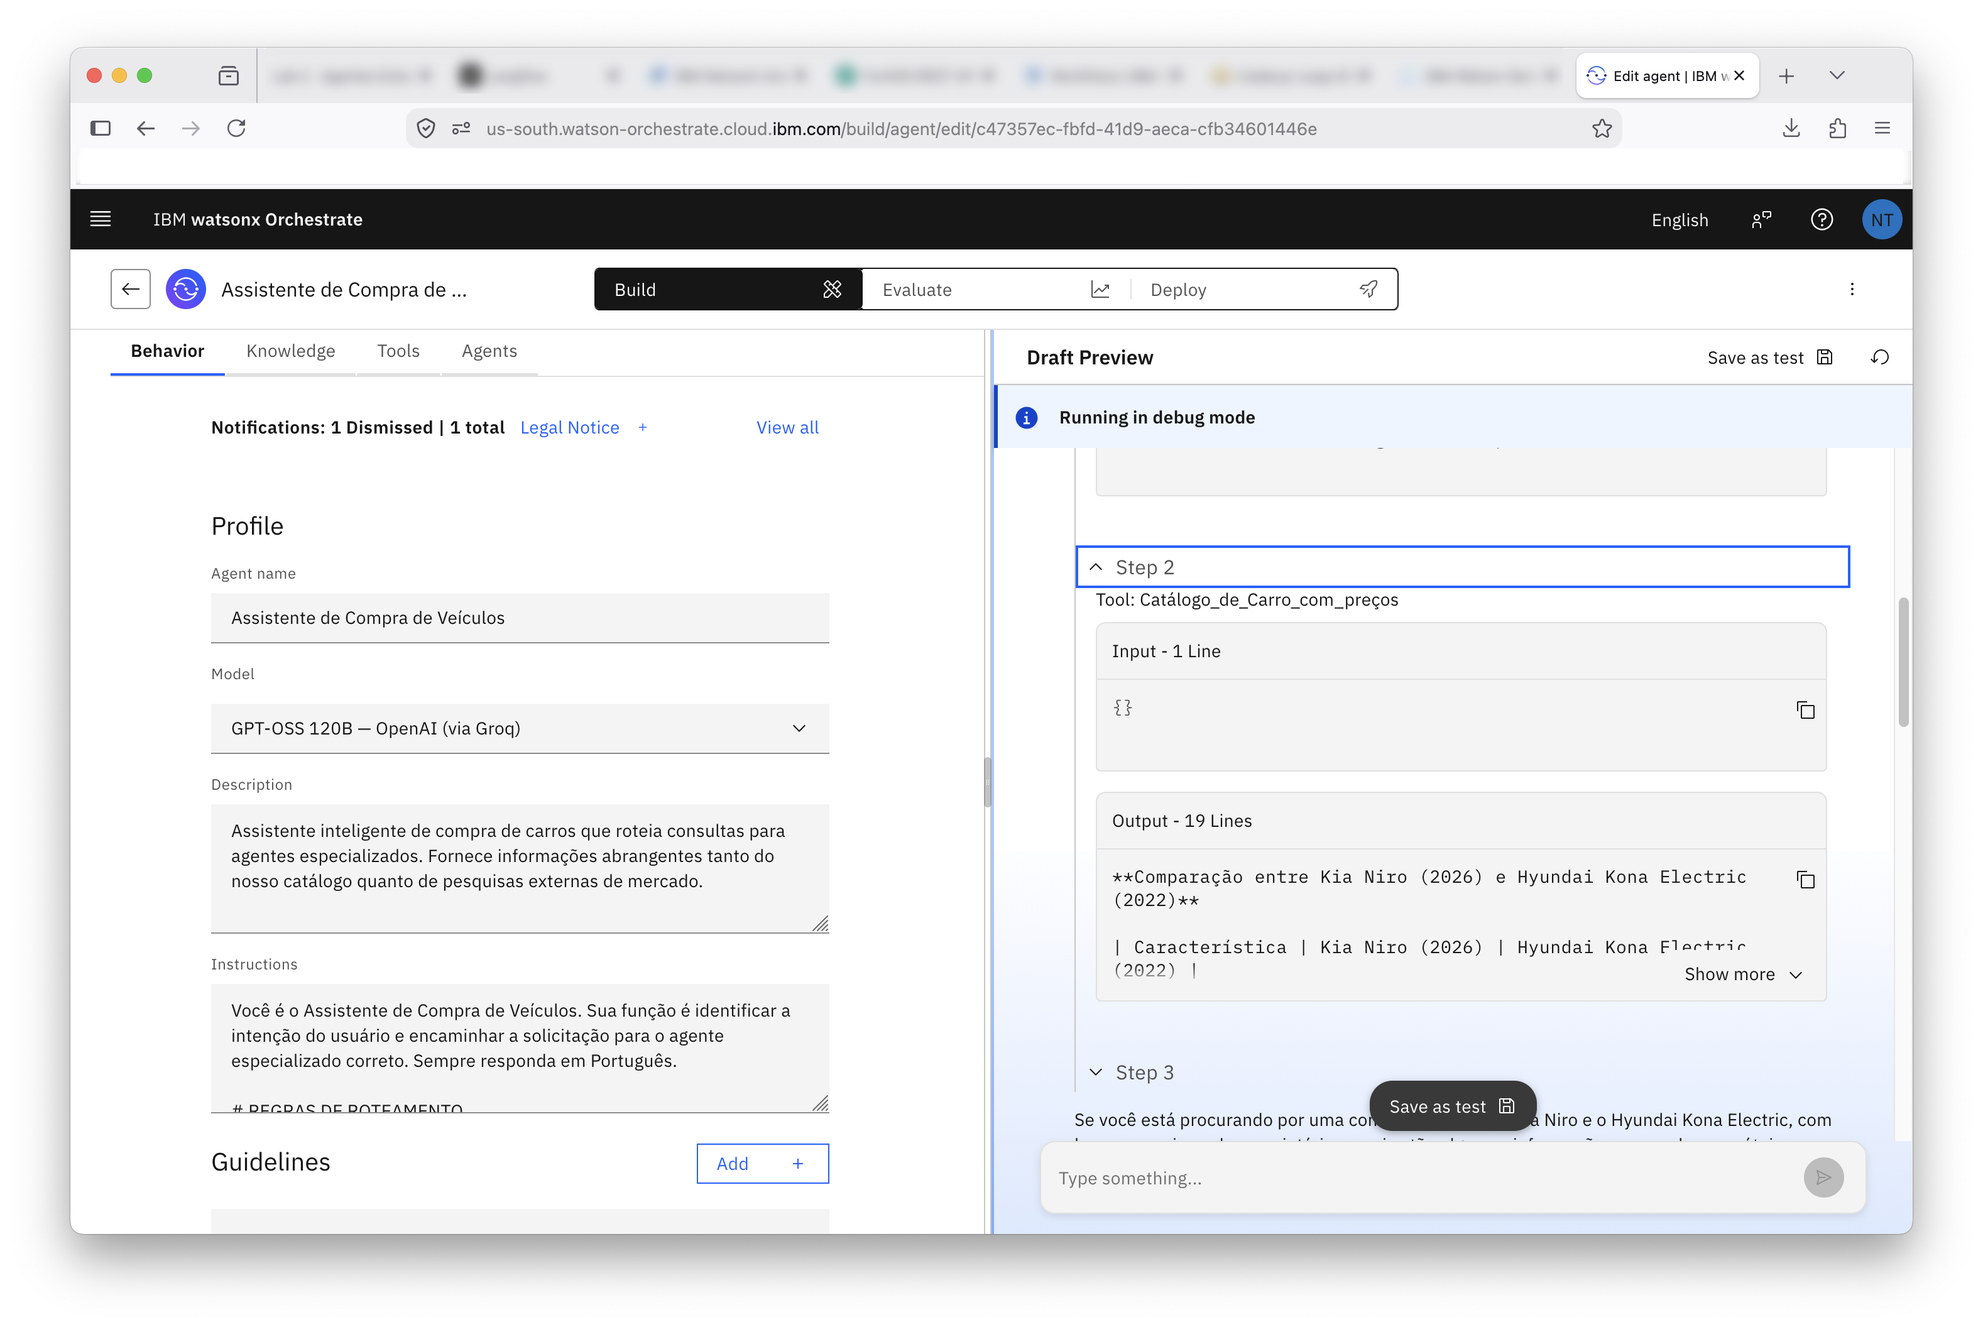
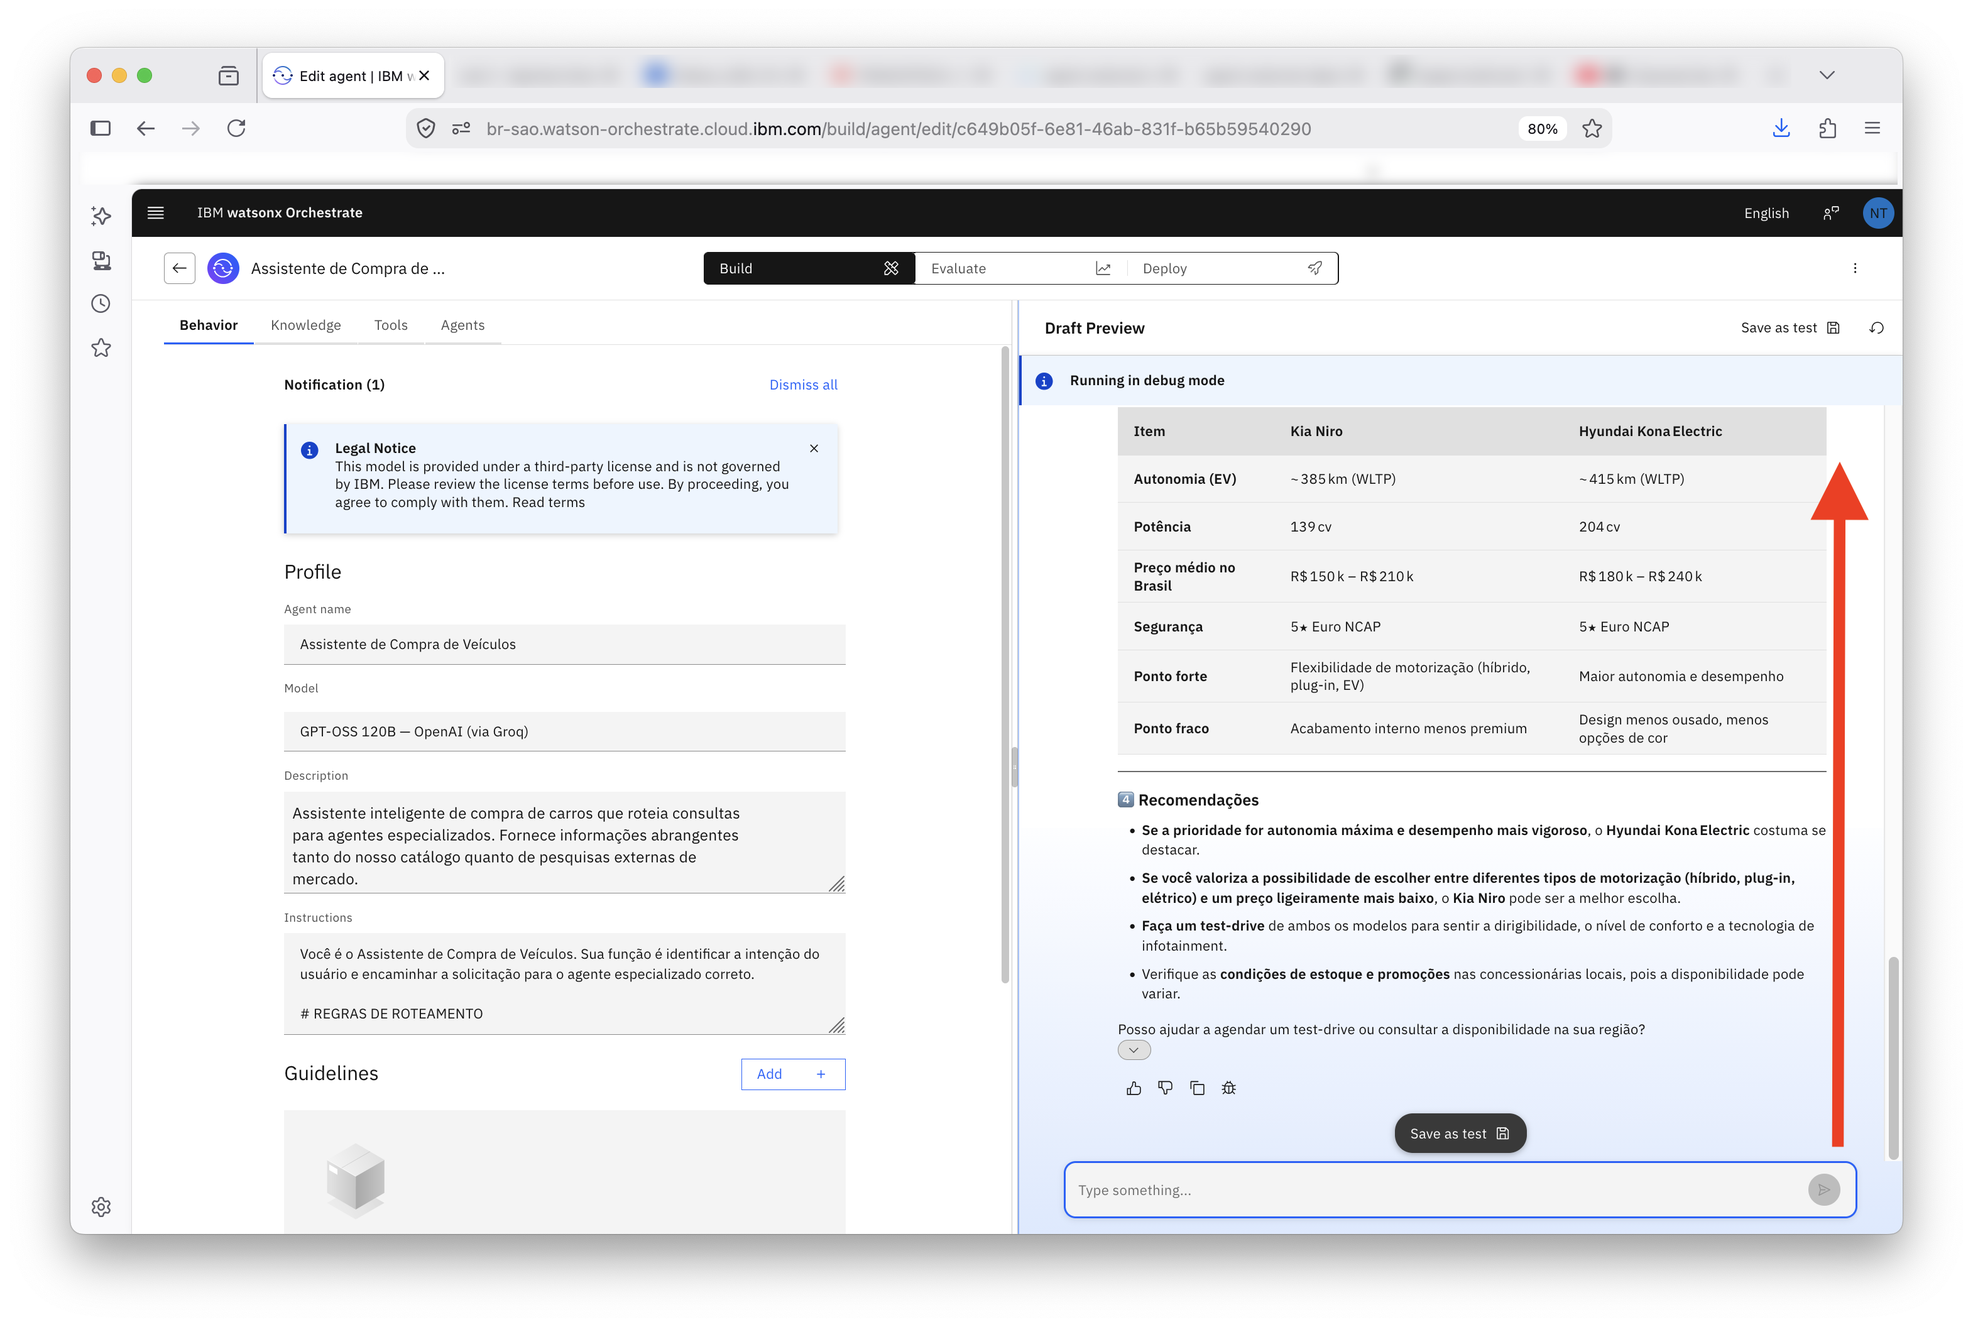
Update lab 2

diff --git a/Use_Cases/control-planning/Step_by_Step_Lab2.md b/Use_Cases/control-planning/Step_by_Step_Lab2.md
@@ -7,6 +7,8 @@
   - [Visão Geral](#visão-geral)
   - [Parte 1: Conectar Agente de Busca de Terceiros](#parte-1-conectar-agente-de-busca-de-terceiros)
   - [Parte 2: Criar o Agente Orquestrador](#parte-2-criar-o-agente-orquestrador)
+    - [Testando o agente orquestrador](#testando-o-agente-orquestrador)
+    - [Teste 2: quando o agente decide *não* buscar na web](#teste-2-quando-o-agente-decide-não-buscar-na-web)
   - [Resumo](#resumo)
     - [Sou desenvolvedor e quero me aprofundar no watsonx Orchestrate](#sou-desenvolvedor-e-quero-me-aprofundar-no-watsonx-orchestrate)
   - [Próximos Passos](#próximos-passos)
@@ -354,17 +356,26 @@ Assistente inteligente de compra de carros que roteia consultas para agentes esp
 
 ![Add Agents, Local instance](../../Assets_for_BuildBooks/labs/lab02/lab02_36.png)
 
-**7.** Marque os dois agentes que você criou até aqui: o agente responsável pelo catálogo (criado no laboratório 1) e o **Agente Langflow de Buscas**, o colaborador externo importado na Parte 1 deste laboratório. Não se preocupe se os nomes exibidos na sua tela forem ligeiramente diferentes dos mostrados aqui, o importante é selecionar os agentes que você mesmo construiu ao longo do bootcamp. Clique em **Add to agent**.
+**7.** Nessa tela é possível escolher os agentes disponíveis no catalogo na sua instância do **watsonx Orchestrate.**
 
 ![Seleção dos dois agentes especializados](../../Assets_for_BuildBooks/labs/lab02/lab02_37.png)
 
-**8.** A aba **Agents** agora lista os dois colaboradores, cada um com sua descrição.
+**7.** Marque os dois agentes criados até aqui.
 
-![Dois agentes conectados ao orquestrador](../../Assets_for_BuildBooks/labs/lab02/lab02_38.png)
+Em seguida, clique em **Add to agent**
 
-Vamos ensinar ao orquestrador como decidir, a cada pergunta, para qual colaborador encaminhar a solicitação.
+![Seleção dos dois agentes especializados](../../Assets_for_BuildBooks/labs/lab02/lab02_38.png)
 
-**9.** Na aba **Behavior**, no campo **Instructions**, copie e cole a lógica de roteamento abaixo. Ela cobre três cenários: consultas que dependem só do catálogo, consultas que dependem só de pesquisa externa e consultas híbridas, que precisam dos dois agentes ao mesmo tempo:
+A aba **Agents** agora lista os dois colaboradores, cada um com sua descrição.
+
+Vamos ensinar ao agente orquestrador como decidir, a cada pergunta, para qual colaborador encaminhar a solicitação.
+
+Navegue até a aba **Behaviour**
+
+
+![Seleção dos dois agentes especializados](../../Assets_for_BuildBooks/labs/lab02/lab02_39.png)
+
+**8.** Na aba **Behavior**, no campo **Instructions**, copie e cole a lógica de roteamento abaixo. Ela cobre três cenários: consultas que dependem só do catálogo, consultas que dependem só de pesquisa externa e consultas híbridas, que precisam dos dois agentes ao mesmo tempo:
 
 ```
 Você é o Assistente de Compra de Veículos. Sua função é identificar a intenção do usuário e encaminhar a solicitação para o agente especializado correto.
@@ -437,65 +448,187 @@ Fluxo:
 - Para pesquisas externas, utilize exclusivamente o agente **Agente de Busca**
 ```
 
-Teste com uma consulta híbrida, que combina uma pergunta de mercado com um pedido de comparação:
+### Testando o agente orquestrador
+
+Com o **Assistente de Compra de Veículos** já conectado aos seus colaboradores, agora vamos verificar se eles realmente conversam entre si.
+
+O objetivo desta parte é responder a três perguntas:
+
+- O agente orquestrador consegue identificar sozinho **qual** especialista deve atender cada trecho de uma pergunta?
+- Ele consegue **combinar** dados internos (catálogo da concessionária) com dados externos (pesquisa na web) em uma única resposta?
+- E, quando a pergunta não exige busca externa, ele tem juízo de **não** acionar o agente de buscas à toa?
+
+
+No painel `Draft Preview`, envie a consulta abaixo.
 
 ```
 Busque sobre o Kia Niro com o Hyundai Kona Electric e faça uma comparação
 ```
 
-![Instruções de roteamento e teste de consulta híbrida](../../Assets_for_BuildBooks/labs/lab02/lab02_39.png)
+Repare que essa pergunta é propositalmente ambígua quanto à origem da informação. Ela não diz "consulte o catálogo" nem "pesquise na internet". Quem precisa tomar essa decisão é o agente orquestrador, com base nas regras de roteamento definidas no campo `Instructions`.
 
-O orquestrador reconhece que a pergunta pede tanto reviews de proprietários quanto uma análise comparativa, consulta os dois agentes especializados e devolve uma resposta única: características de cada modelo segundo avaliações de donos, seguidas de uma comparação direta entre eles.
+![Seleção dos dois agentes especializados](../../Assets_for_BuildBooks/labs/lab02/lab02_40.png)
 
-![Resposta consolidada sobre Kia Niro e Hyundai Kona Electric](../../Assets_for_BuildBooks/labs/lab02/lab02_40.png)
+A resposta chega organizada em quatro blocos. O primeiro traz as **especificações técnicas** e já vem rotulado pelo próprio agente como *dados internos do catálogo*: tipo de motorização, potência, torque, bateria, autonomia EPA, câmbio, tração, capacidade de passageiros e recarga.
 
-Para entender o que aconteceu por trás dessa resposta, clique em **Show Reasoning**, ao lado do nome do agente.
+![Seleção dos dois agentes especializados](../../Assets_for_BuildBooks/labs/lab02/lab02_41.png)
 
-![Botão Show Reasoning](../../Assets_for_BuildBooks/labs/lab02/lab02_42.png)
+Ainda no primeiro bloco aparecem os itens de segurança, o preço praticado no Brasil e a disponibilidade. Vale guardar esses dois valores, porque eles voltam a aparecer mais adiante:
 
-O painel se expande em três etapas.
+| Modelo | Preço (catálogo) |
+|---|---|
+| Kia Niro | R$ 168.324,10 |
+| Hyundai Kona Electric | R$ 139.834,10 |
 
-![Três etapas do raciocínio do orquestrador](../../Assets_for_BuildBooks/labs/lab02/lab02_43.png)
+O campo **Disponibilidade** aparece como *"Sem informação de estoque no catálogo"* para os dois modelos. Esse é um comportamento desejável: em vez de inventar um dado que não existe na base, o agente declara a ausência dele.
 
-No **Step 1**, o orquestrador aciona a ferramenta `chat_with_collaborator_agente_de_suporte_ao_revendedor`, pedindo especificações técnicas, versões disponíveis, preço médio e disponibilidade para os dois veículos, exatamente o papel que a regra 1 de roteamento define para o agente de catálogo.
+O segundo bloco muda de fonte. Sob o título **Avaliações de usuários e especialistas (pesquisa externa)**, o agente lista pontos positivos, pontos negativos e a opinião de especialistas para cada veículo — informação que não está no catálogo da concessionária e só poderia ter vindo de uma busca na web.
+![Seleção dos dois agentes especializados](../../Assets_for_BuildBooks/labs/lab02/lab02_42.png)
 
-![Step 1, chamada ao agente de suporte ao revendedor](../../Assets_for_BuildBooks/labs/lab02/lab02_44.png)
+O terceiro bloco é um **resumo rápido** em tabela e o quarto traz **recomendações** práticas, incluindo a sugestão de test-drive e a checagem de estoque e promoções na concessionária. A resposta termina com uma pergunta de continuidade, oferecendo agendar um test-drive.
 
-No **Step 2**, dentro dessa mesma consulta, a ferramenta `Catálogo_de_Carro_com_preços` é usada para trazer os dados internos do catálogo.
+![Seleção dos dois agentes especializados](../../Assets_for_BuildBooks/labs/lab02/lab02_43.png)
 
-![Step 2, ferramenta de catálogo com preços](../../Assets_for_BuildBooks/labs/lab02/lab02_45.png)
+![Seleção dos dois agentes especializados](../../Assets_for_BuildBooks/labs/lab02/lab02_44.png)
 
-No **Step 3**, o orquestrador aciona `chat_with_collaborator_Agente_de_Buscas`, o colaborador externo configurado na Parte 1, pedindo reviews de proprietários e uma comparação entre os dois modelos. É esse encadeamento de chamadas, catálogo interno e busca externa, que caracteriza uma consulta híbrida.
+Antes de seguir, role a conversa de volta para o topo e leia a resposta inteira. Ela mistura duas origens de dados em um texto só, e é exatamente isso que vamos rastrear a seguir.
 
-![Step 3, chamada ao Agente Langflow de Buscas](../../Assets_for_BuildBooks/labs/lab02/lab02_46.png)
+![Seleção dos dois agentes especializados](../../Assets_for_BuildBooks/labs/lab02/lab02_45.png)
 
-Agora teste uma pergunta puramente de catálogo:
+**Rastreando o caminho da resposta**
+
+A resposta ficou boa, mas ainda é uma caixa-preta. Para entender quem foi acionado, clique em `Show Reasoning`, ao lado do nome do agente e do horário da mensagem.
+
+![Seleção dos dois agentes especializados](../../Assets_for_BuildBooks/labs/lab02/lab02_46.png)
+
+O painel se expande e mostra quatro passos numerados. Cada passo traz a ferramenta chamada, o **Input** que o agente enviou e o **Output** que recebeu de volta.
+
+**Step 1 — o orquestrador chama o especialista interno**
+
+O primeiro passo aciona a ferramenta `chat_with_collaborator_agente_de_suporte_ao_revendedor`. Repare no conteúdo do Input:
+
+```json
+{
+  "message": "Quais são as especificações técnicas, preços e disponibilidade do Kia Niro e do Hyundai Kona Electric?"
+}
+```
+
+Esse texto **não** foi escrito por você. O orquestrador leu a pergunta original, entendeu que parte dela dependia de dados da concessionária e reformulou uma sub-pergunta específica para o colaborador certo. O Output confirma a transferência: `Transferring to - chat_with_collaborator_agente_de_suporte_ao_revendedor`.
+
+
+![Seleção dos dois agentes especializados](../../Assets_for_BuildBooks/labs/lab02/lab02_47.png)
+
+
+**Step 2 — o especialista consulta a base de conhecimento**
+
+Já dentro do Agente de Suporte ao Revendedor, o segundo passo chama a ferramenta `Catálogo_de_Carro_com_preços` com uma consulta enxuta:
+
+```json
+{
+  "query": "Kia Niro"
+}
+```
+
+O Output tem 22 linhas e vem do documento `Catalog_with_prices_clean.pdf`, com trechos do catálogo, preços e observações. É aqui que nasce o primeiro bloco da resposta.
+
+![Seleção dos dois agentes especializados](../../Assets_for_BuildBooks/labs/lab02/lab02_48.png)
+
+> **Nota:** ao expandir o Output com `Show more`, procure o trecho marcado como *QUALIDADE DE DADOS*. Ele avisa que o catálogo de origem escreve o modelo como **NERO**, enquanto o crossover elétrico da Kia se chama **Niro**, e que o texto foi mantido como impresso. Vale observar que o agente conseguiu casar a consulta "Kia Niro" com o registro "Kia Nero" do catálogo mesmo com a divergência de grafia.
+
+**Step 3 — o orquestrador chama o especialista de busca**
+
+Com os dados internos em mãos, o orquestrador parte para a segunda metade da pergunta e aciona `chat_with_collaborator_agente_de_busca`, novamente com uma sub-pergunta que ele mesmo formulou:
+
+```json
+{
+  "message": "Busque avaliações de usuários e opiniões de especialistas sobre o Kia Niro e o Hyundai Kona Electric."
+}
+```
+![Seleção dos dois agentes especializados](../../Assets_for_BuildBooks/labs/lab02/lab02_49.png)
+
+
+**Step 4 — o segundo salto, até o agente externo**
+
+Este é o passo mais interessante do laboratório. O Agente de Busca **não** responde sozinho: ele repassa a mesma mensagem para `chat_with_collaborator_Agente_Langflow_de_Buscas`, e o Output mostra a transferência para a instância `chat_with_collaborator_Agente_Langflow_de_Buscas_5015mM`, que é o agente externo importado via protocolo A2A no início deste laboratório.
+
+![Seleção dos dois agentes especializados](../../Assets_for_BuildBooks/labs/lab02/lab02_50.png)
+
+Colocando os quatro passos lado a lado, o desenho da execução fica assim:
+
+```
+Usuário
+  └─ Assistente de Compra de Veículos (orquestrador)
+       ├─ Agente de Suporte ao Revendedor          ← dados internos
+       │    └─ Catálogo_de_Carro_com_preços        (base de conhecimento / PDF)
+       └─ Agente de Busca                          ← dados externos
+            └─ Agente Langflow de Buscas           (agente externo via A2A)
+```
+
+---
+
+### Teste 2: quando o agente decide *não* buscar na web
+
+Se o orquestrador sempre chamasse todos os colaboradores, o roteamento não teria valor nenhum. Vamos verificar se ele sabe se conter.
+
+Clique no ícone `Reset chat`, no canto superior direito do painel `Draft Preview`, para começar uma conversa limpa. Isso é importante: sem o reset, o agente pode reaproveitar o contexto da comparação anterior e o teste perde a validade.
+
+![Seleção dos dois agentes especializados](../../Assets_for_BuildBooks/labs/lab02/lab02_51.png)
+
+Com o chat zerado, envie a consulta abaixo.
 
 ```
 me apresente as opções disponíveis que vocês tem no catálogo e os preços
 ```
+![Seleção dos dois agentes especializados](../../Assets_for_BuildBooks/labs/lab02/lab02_52.png)
 
-![Pergunta sobre opções e preços do catálogo](../../Assets_for_BuildBooks/labs/lab02/lab02_41.png)
+Desta vez a resposta é uma tabela única com os cinco veículos em estoque, trazendo ID, marca, modelo, ano, cor e preço:
 
-Abrindo o raciocínio dessa resposta, o **Step 1** mostra o orquestrador consultando apenas o **Agente de suporte ao revendedor**, sem acionar o agente de busca externa, já que a pergunta não pede reviews nem pesquisa de mercado.
+| ID | Marca | Modelo | Ano | Cor | Preço (R$) |
+|---|---|---|---|---|---|
+| VEH-001 | Nissan | Versa | 2024 | Azul | 95.778,20 |
+| VEH-002 | Hyundai | Kona Electric | 2022 | Preto | 139.834,10 |
+| VEH-003 | Alfa Romeo | Spider | 1991 | Vermelho | 103.082,00 |
+| VEH-004 | Porsche | 911 Carrera GTS | – | Cinza | 776.974,10 |
+| VEH-005 | Kia | Nero | 2026 | Amarelo | 168.324,10 |
 
-![Step 1 da consulta de catálogo](../../Assets_for_BuildBooks/labs/lab02/lab02_47.png)
+Note que o registro VEH-005 aparece como **Kia Nero**, exatamente como está impresso no catálogo, confirmando a observação de qualidade de dados do Step 2 do teste anterior. E o preço de R$ 139.834,10 do Kona Electric é o mesmo que apareceu na comparação, o que prova que aquele bloco realmente veio da base interna.
 
-No **Step 2**, a ferramenta `Catálogo_de_Carro_com_preços` devolve a lista de veículos com seus respectivos preços, que o agente organiza em uma tabela na resposta final.
+Clique em `Show Reasoning` para conferir o caminho.
 
-![Step 2, lista de veículos e preços retornada pela ferramenta](../../Assets_for_BuildBooks/labs/lab02/lab02_48.png)
+![Seleção dos dois agentes especializados](../../Assets_for_BuildBooks/labs/lab02/lab02_53.png)
 
-A resposta final apresenta a tabela de modelos, anos, versões, cores e preços, junto com uma observação transparente sobre o Hyundai Kona Electric 2022, cujo preço não está divulgado no catálogo no momento. Repare no pequeno ícone abaixo da resposta: ele indica que existe uma fonte associada a essa informação.
+Agora são apenas **dois** passos, e não quatro. O Step 1 encaminha para o Agente de Suporte ao Revendedor com a mensagem reformulada:
 
-![Tabela final de opções do catálogo](../../Assets_for_BuildBooks/labs/lab02/lab02_49.png)
+```json
+{
+  "message": "Por favor, apresente as opções disponíveis no catálogo e os preços."
+}
+```
 
-Clique nesse ícone para expandir a fonte. O Orchestrate mostra o trecho exato do documento de conhecimento usado para gerar a resposta, neste caso o arquivo `Catalog_with_prices_clean.pdf`, com os dados brutos de cada veículo. Essa rastreabilidade é o que permite conferir, a qualquer momento, se a resposta do agente está mesmo apoiada nos dados oficiais do catálogo.
+![Seleção dos dois agentes especializados](../../Assets_for_BuildBooks/labs/lab02/lab02_54.png)
 
-![Fonte do documento de catálogo expandida](../../Assets_for_BuildBooks/labs/lab02/lab02_50.png)
+E o Step 2 consulta a base de conhecimento com a query `catalog`, retornando novamente 22 linhas do `Catalog_with_prices_clean.pdf`.
 
-Com o orquestrador testado nos dois cenários, catálogo isolado e consulta híbrida, publique o agente. Clique em **Deploy**, no topo da tela, à esquerda, e em seguida clique em **Deploy** novamente para confirmar.
+![Seleção dos dois agentes especializados](../../Assets_for_BuildBooks/labs/lab02/lab02_55.png)
 
-O deploy do seu agente está ativo. Quando solicitado, clique em **Activate agent monitoring** para acompanhar o uso do agente em produção.
+O Agente de Busca e o agente externo do Langflow **não foram acionados**  e é esse o resultado esperado. A pergunta era sobre estoque próprio, um dado que existe internamente, então não havia razão para uma busca na web. Roteamento seletivo é o que separa um sistema multiagente de um sistema que apenas encarece e atrasa cada resposta.
+
+> **Nota:** cada colaborador acionado é uma chamada de modelo a mais, com latência e consumo próprios. Comparar os quatro passos do primeiro teste com os dois passos do segundo é a forma mais direta de mostrar, na prática, o custo de um roteamento mal calibrado.
+
+**Verificando a fonte da resposta**
+
+Falta um último detalhe. Logo abaixo do texto da resposta há um pequeno botão de seta. Clique nele.
+
+![Seleção dos dois agentes especializados](../../Assets_for_BuildBooks/labs/lab02/lab02_56.png)
+
+O painel se abre e exibe o card do documento `Catalog_with_prices_clean.pdf`, com o trecho exato que fundamentou a resposta e um link `View source`. O contador `1/5` no rodapé indica que cinco trechos da base foram recuperados para montar aquela mensagem, e as setas permitem navegar entre eles.
+
+![Seleção dos dois agentes especializados](../../Assets_for_BuildBooks/labs/lab02/lab02_57.png)
+
+Enquanto o `Show Reasoning` responde *"por onde a resposta passou"*, esse painel responde *"em que documento ela se apoia"*. São duas perguntas diferentes e igualmente importantes quando você precisa auditar um agente:
+
+- A resposta veio de uma fonte controlada por você ou de uma busca externa livre?
+- O trecho recuperado sustenta mesmo a afirmação que o agente fez?
 
 -----
 
